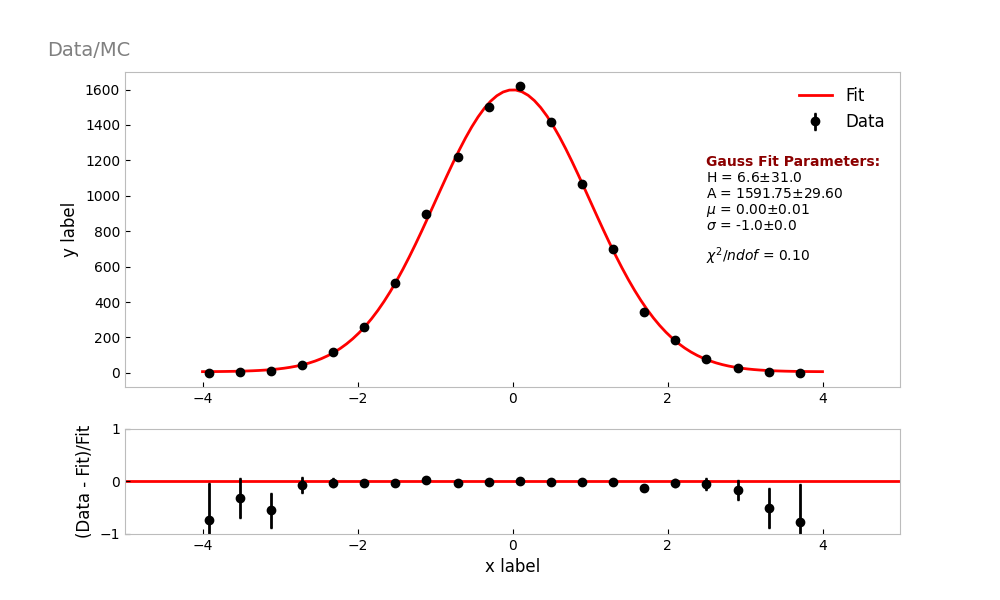
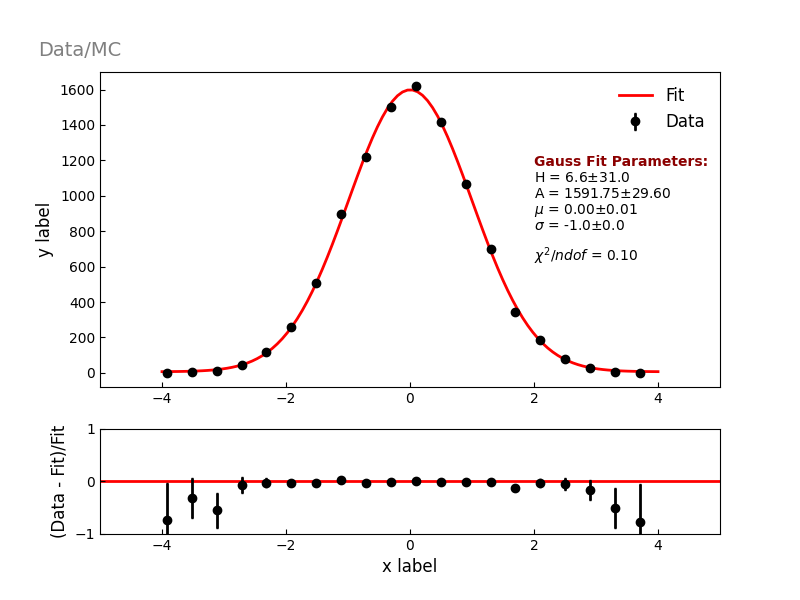
Implement comments and other updates
- Make axis colors black instead of gray
- Resize data/MC plot and shift text to fit in frame

diff --git a/examples/matplotlib/example.py b/examples/matplotlib/example.py
@@ -18,6 +18,13 @@ def Gauss1D():
     x = np.linspace(-5, 5, 500)
     y = scipy.stats.norm.pdf(x)
 
+    # Set axex color. For specific axes, you can use e.g.
+    # ax.spines['left'].set_color()
+    # Also, note this needs to come before plt.plot() or else
+    # matplotlib freaks out
+    ax = plt.axes()
+    ax.spines[:].set_color('black')
+
     plt.plot(x, y, label="Gaussian")
     plt.xlabel("x label")
     plt.ylabel("y label")
@@ -30,8 +37,11 @@ def Gauss1D():
 def Hist1D():
     x = np.random.normal(0, 1, 1000)
 
+
     plt.figure()
     plt.style.use('tableau-colorblind10')
+    ax = plt.axes()
+    ax.spines[:].set_color('black')
     plt.hist(x, histtype='step', label="Hist", linewidth=2)
     plt.xlabel('x label')
     plt.ylabel('y label')
@@ -94,7 +104,7 @@ def DataMC():
     residuals = (counts - Gauss(bin_centers, H, A, x0, sigma)) / Gauss(bin_centers, H, A, x0, sigma)
     chi2 = ((residuals**2)).sum() / float(bin_centers.size-2)
 
-    fig = plt.figure(figsize=(10,6))
+    fig = plt.figure(figsize=(8,6))
     gs = gridspec.GridSpec(nrows=2, ncols=1, height_ratios=[3, 1])
 
     # Top plot
@@ -103,19 +113,20 @@ def DataMC():
     ax0.plot(x_fit, y_fit, color='r', label="Fit")
     ax0.errorbar(x=bin_centers, y=counts, yerr=y_errors, 
                  color='black', fmt='o', capsize=1, label="Data")
-    ax0.text(0.75, 0.70, 'Gauss Fit Parameters:', 
+    ax0.text(0.70, 0.70, 'Gauss Fit Parameters:', 
              fontdict={'color': 'darkred', 'size': 10, 'weight': 'bold'},
              transform=ax0.transAxes)
-    ax0.text(0.75, 0.65, 'H = {0:0.1f}$\pm${1:0.1f}'
+    ax0.text(0.70, 0.65, 'H = {0:0.1f}$\pm${1:0.1f}'
              .format(H, dH), transform=ax0.transAxes)
-    ax0.text(0.75, 0.60, 'A = {0:0.2f}$\pm${1:0.2f}'
+    ax0.text(0.70, 0.60, 'A = {0:0.2f}$\pm${1:0.2f}'
              .format(A, dA), transform=ax0.transAxes)
-    ax0.text(0.75, 0.55, r'$\mu$ = {0:0.2f}$\pm${1:0.2f}'
+    ax0.text(0.70, 0.55, r'$\mu$ = {0:0.2f}$\pm${1:0.2f}'
              .format(x0, dx0), transform=ax0.transAxes)
-    ax0.text(0.75, 0.50, r'$\sigma$ = {0:0.1f}$\pm${1:0.1f}'
+    ax0.text(0.70, 0.50, r'$\sigma$ = {0:0.1f}$\pm${1:0.1f}'
              .format(sig, dsig), transform=ax0.transAxes)
-    ax0.text(0.75, 0.40, '$\chi^2/ndof$ = {0:0.2f}'
+    ax0.text(0.70, 0.40, '$\chi^2/ndof$ = {0:0.2f}'
              .format(chi2),transform=ax0.transAxes)
+    ax0.spines[:].set_color('black')
     ax0.legend()
     ax0.set_xlim(-5,5)
     dunestyle.CornerLabel("Data/MC")
@@ -128,6 +139,7 @@ def DataMC():
     ax1.set_xlabel("x label")
     ax1.set_ylabel("(Data - Fit)/Fit")
     ax1.set_ylim(-1,1)
+    ax1.spines[:].set_color('black')
     plt.savefig("example.matplotlib.datamc.png")
 
 def Hist2DContour():
@@ -167,6 +179,7 @@ def Hist2DContour():
 
     ax.set_xlabel("x label")
     ax.set_ylabel("y label")
+    ax.spines[:].set_color('black')
     dunestyle.CornerLabel("2D Histogram Example")
     dunestyle.Simulation(x=1.05) # Shift slightly right
     plt.legend()
@@ -179,6 +192,8 @@ def HistStacked():
     x3 = np.random.normal(-1, 1, 1000)
     nbins = 50
     plt.figure()
+    ax = plt.axes()
+    ax.spines[:].set_color('black')
     # Can choose one of matplotlib's built-in color patlettes if you prefer
     plt.style.use('tableau-colorblind10')
     hist_labels = ['One Hist', 'Two Hist', 'Three Hist']
@@ -197,6 +212,8 @@ def HistOverlay():
     x3 = np.random.normal(-2, 1, 1000)
     nbins = 25
     plt.figure()
+    ax = plt.axes()
+    ax.spines[:].set_color('black')
     plt.style.use('tableau-colorblind10')
     plt.hist(x1, nbins, histtype='step', linewidth=2, label="One Hist")
     plt.hist(x2, nbins, histtype='step', linewidth=2, label="Two Hist")
